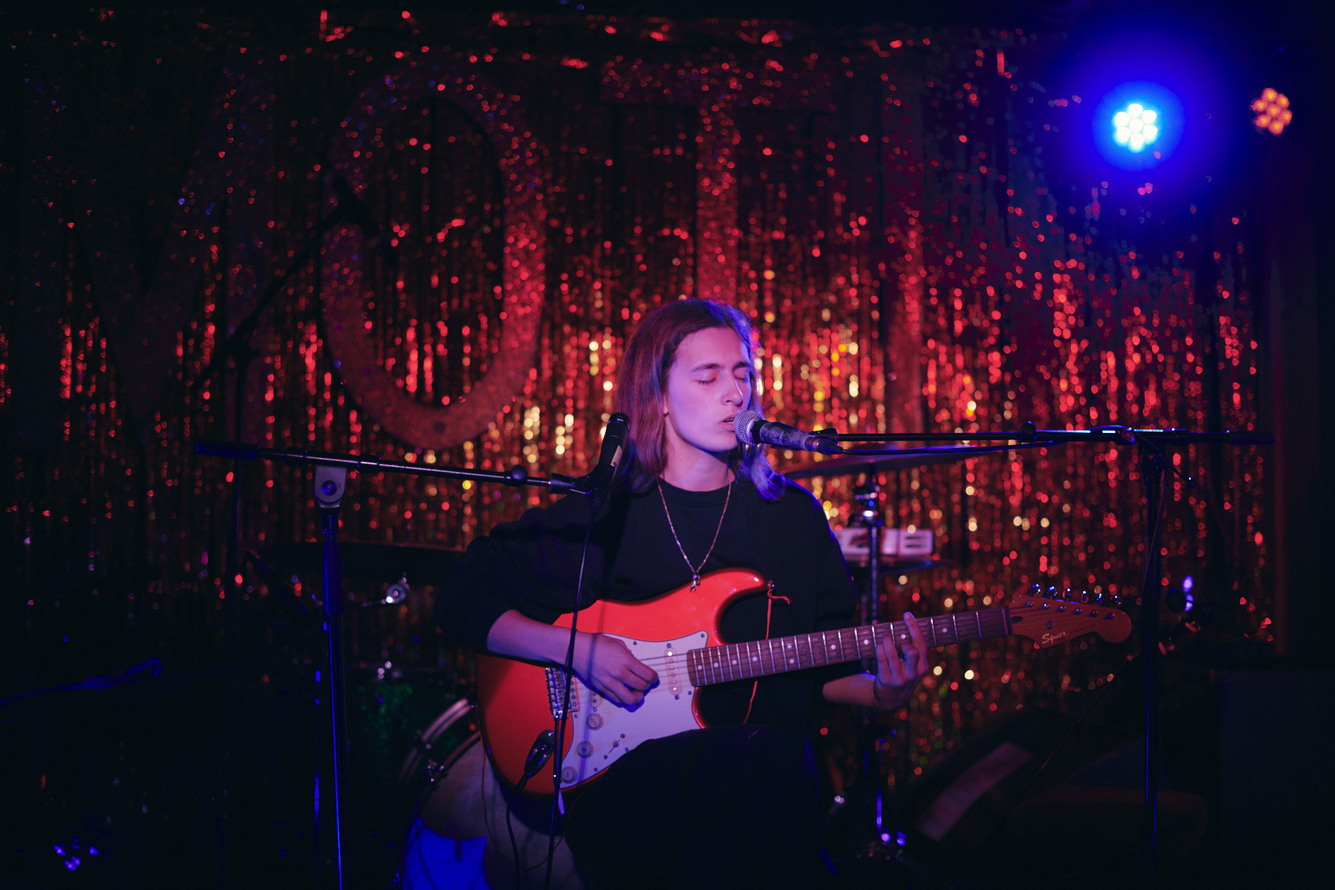
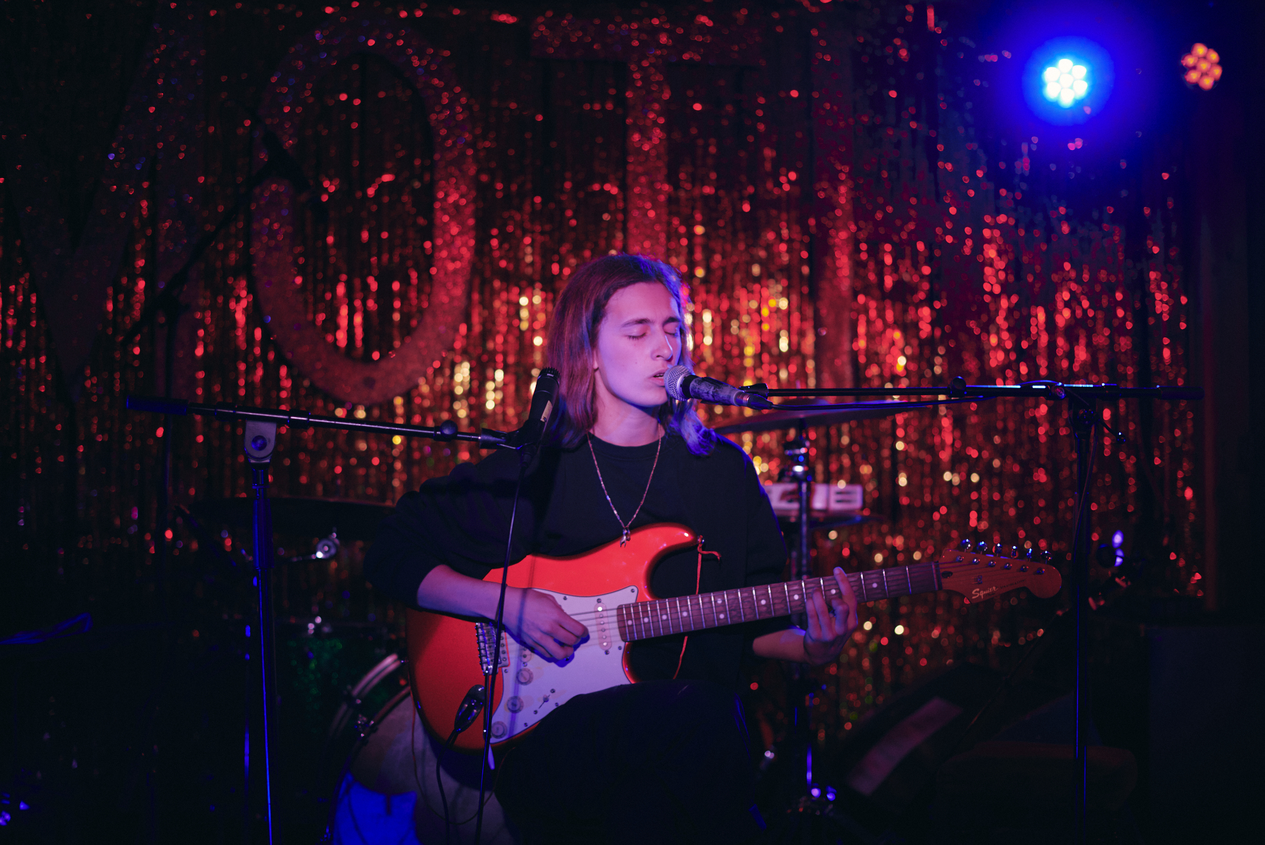
updated 2024

diff --git a/index.html b/index.html
@@ -13,62 +13,62 @@
 <body>
 
     <div class="column-1">
-        <div class="social-links">
+        <div class="logo">
             <p><b>heka</b>
-                <br><br><br><br>
-                <a class="social" href="https://www.instagram.com/iamheka" target="_blank">&rarr; Instagram</a>
-                <br>
-                <a class="social" href="http://hekamusic.bandcamp.com/" target="_blank">&rarr; Bandcamp</a>
-                <br>
-                <a class="social" href="https://www.facebook.com/hekaproject" target="_blank">&rarr; Facebook</a>
-                <br>
-                <a class="social" href="https://www.twitter.com/iamheka" target="_blank">&rarr; Twitter</a>
-                <br>
-                <a class="social" href="https://open.spotify.com/artist/0pywJo7FyLovHMpmlIwWmL?si=QlA6QBrdRE6seprmR10vYQ" target="_blank">&rarr; Spotify</a>
-                <br>
-                <a class="social" href="https://www.youtube.com/c/hekamusic" target="_blank">&rarr; YouTube</a>
-                <br><br><br>
+
         </div>
-        <div class="team">
+
+        <div class="left-column-section">
+
+            <a class="social" href="https://www.instagram.com/iamheka" target="_blank">&rarr; Instagram</a>
+            <br>
+            <a class="social" href="http://hekamusic.bandcamp.com/" target="_blank">&rarr; Bandcamp</a>
+            <br>
+            <a class="social" href="https://www.facebook.com/hekaproject" target="_blank">&rarr; Facebook</a>
+            <br>
+            <a class="social" href="https://www.twitter.com/iamheka" target="_blank">&rarr; Twitter</a>
+            <br>
+            <a class="social" href="https://open.spotify.com/artist/0pywJo7FyLovHMpmlIwWmL?si=QlA6QBrdRE6seprmR10vYQ" target="_blank">&rarr; Spotify</a>
+            <br>
+            <a class="social" href="https://www.youtube.com/c/hekamusic" target="_blank">&rarr; YouTube</a>
+            <br><br><br>
+        </div>
+        <div class="left-column-section">
             <b>Manager:</b>
             <br><br>
             Tobi Moore 
             <br>
             <a href="mailto:tobi@thesapiensgroup.co.uk"><i>tobi@thesapiensgroup.co.uk</i></a>
-            <br><br><br>
-            <b>Live Band:</b>
-            <br><br>
-            > Pike Ogilvy <i>(drums, sample pad)</i>
             <br>
-            > Caius Williams <i>(double bass, bass guitar + pedals)</i> 
-            <br><br><br>
+        </div>
+        <div class="left-column-section">
+            <b>Upcoming Shows:</b>
+            <br><br>
+            03/06 ~ <i>Import Export</i>, Munich
+            <br>
+            07/06 ~ <i>La Boule Noire</i>, Paris
         </div>
 
-        <div class="show-calendar"> <b>Upcoming shows:</b>
-            <br><br>
+        <!--
+        <div class="show-calendar"> 
 
-            <br>
-            19th October @ The George Tavern, London
-            <br>
-            13th November @ Sonic City. Kortrijk, Belgium
-            <br>
-            14th November @ Cinetol. Amsterdam, NL
-            <br>
-            15th November @ Supersonic. Paris, France
+            <a href="https://www.songkick.com/artists/10081402" class="songkick-widget" data-theme="light" data-track-button="on" data-detect-style="on" data-locale="en" data-other-artists="on" data-share-button="on" data-country-filter="off" data-rsvp="on" data-request-show="on" data-past-events="off" data-past-events-offtour="off" data-remind-me="off"></a>
+            <script src='//widget-app.songkick.com/injector/10081402'></script>
 
         </div>
+-->
 
-      <br>• •<br>
-
-        <div class="asset-links">
+        <br>• •<br>
+        <br><br>
+        <div class="left-column-section">
             <p><b>Download Visual Assets</b>
                 <br>
                 <a href="https://drive.google.com/drive/folders/1mfpSH2ZFhLpdM7w_8p_YvBPUtZD53PPa?usp=sharing" target=”_blank”>&rarr; here &larr;</a>
-                <br><br><br>
+                <br><br>
                 <b>Download Tech Specs</b>
                 <br>
                 <a href="https://docs.google.com/document/d/1GjV6ToJtKZCdKaVZb6SqRvJ4mnX-0sMiJQnY85NaLEI/edit?usp=sharing">&rarr; here &larr;</a>
-                <br><br><br>
+                <br><br>
                 <b>Watch Live Videos</b>
                 <br>
                 <a href="https://youtube.com/playlist?list=PLSdkOC0WYO22STZqFrXGuaJw9FZUtl0Jn" target=”_blank”>&rarr; here &larr;</a>
@@ -79,7 +79,7 @@
 
 
     <div class="column-2">
-        <a href="https://drive.google.com/drive/folders/1mfpSH2ZFhLpdM7w_8p_YvBPUtZD53PPa?usp=sharing" target=”_blank”><img class="main" src="visual-assets/EBERT_HEKA_web_01_CROPPED.jpg"></a>
+        <a href="https://drive.google.com/drive/folders/1mfpSH2ZFhLpdM7w_8p_YvBPUtZD53PPa?usp=sharing" target=”_blank”><img class="main" src="visual-assets/SWAN SONGS Press shot.jpg"></a>
 
         <div class="sub-column-1">
 
@@ -93,36 +93,42 @@
                 <br><br>
                 <i>“(An EP) of intoxicating beauty, a mesmerising project that’s tied to the promise of bigger things to come.”</i>
                 <br>
-
                 <b>Our Culture </b>
                 <br><br>
                 <b>Bandcamp Record Of The Day</b>
                 <br><br>
                 <b>Featured on BBC Radio 1’s Chillest Show</b>
                 <br><br>
+                <b>Featured on BBC Radio 6’s Gilles Peterson Show</b>
+                <br><br>
                 <b>Featured in The Independent</b></p>
         </div>
         <div class=sub-column-2>
-            <p>Francesca Brierley - aka heka - is a multi-disciplinary artist, songwriter and producer from Florence, now based in London. <br>Deeply intimate and awash with melancholia, her style of lo-fi warmth incorporates snippets of conversations previously buried deep within the notes of her phone, blending murmurings of life with themes of love and loss, nostalgia and the everyday.<br><br>Rejecting genre constraints in favour of a sonic hybridity, 2021 saw her release (a), a collection of self-produced, butchered folk songs which, through the melding of electronic and organic tones, delivered an EP that is as haunting as it is enticing.  <br><br>Having toured the UK with the cult acclaimed White Flowers, as well as playing shows with the likes of Modern Woman, Broadside Hacks and Sean Nicholas Savage, heka is now organising her first EU tour with Spang Sisters, off the back of having been handpicked by BC,NR to play Sonic City Festival in Belgium in November.<br><br>
-                Her latest releases include: no one, a single for Open Tab, the new imprint by NY label FireTalk, and High Tide, a collaboration with London producer GG Skips (Sorry, Glows), featured on the ‘21 Slow Dance Compilation.</p>
+            <p>Francesca Brierley - aka heka - is a multi-disciplinary artist, songwriter and producer from Florence based in London. Deeply intimate and awash with melancholia, her style of lo-fi warmth incorporates snippets of conversations previously buried deep within the notes of her phone, blending murmurings of life with themes of love and loss, nostalgia and the everyday. Rejecting genre constraints, her self-produced "butchered folk" songs meld electronic and organic tones in favour of a sonic hybridity.
+                <br><br>
+                Having carved a name for herself in the underground indie scene over the last few years, heka has recently released a new EP via Practise Music (Squid, Martha Skye Murphy, Blue Bendy) and sold out her debut London headline.<br>Her work spans far outside the conventions of music with live performances featuring AI animated live projections and audio reactive stage design. She has gained coverage from the likes of PASTE, The i Paper, Fred Perry, and radio support from BBC Radio 1 and 6, Worldwide FM and NTS.
+                <br><br>
+                Picked by Black Country, New Road to play Sonic City Festival, other notable live shows include a UK tour with cult acclaimed White Flowers, as well as playing shows with the likes of Sam Burton, bar italia, Drug Store Romeos, Indigo Sparke and Saint Jude.
+                <br><br>
+                Having spent the past year crafting away on her live set up and scoring for some indie films, she is now working on her first studio album.
         </div>
 
     </div>
 
     <div class="column-3">
 
+        <a href="https://drive.google.com/drive/folders/1mfpSH2ZFhLpdM7w_8p_YvBPUtZD53PPa?usp=sharing" target=”_blank”><img class="press-shot-moth-club" id="pic" src="visual-assets/state51 pic.jpg"></a>
+
         <a href="https://drive.google.com/drive/folders/1mfpSH2ZFhLpdM7w_8p_YvBPUtZD53PPa?usp=sharing" target=”_blank”><img class="press-shot-a" id="pic" src="visual-assets/(a) EP press shot.png"></a>
 
-
-        <a href="https://drive.google.com/drive/folders/1mfpSH2ZFhLpdM7w_8p_YvBPUtZD53PPa?usp=sharing" target=”_blank”><img class="press-shot-no-one" id="pic" src="visual-assets/heka_Fire Talk press shot.png"></a>
-
-
         <a href="https://drive.google.com/drive/folders/1mfpSH2ZFhLpdM7w_8p_YvBPUtZD53PPa?usp=sharing" target=”_blank”><img class="press-shot-moth-club" id="pic" src="visual-assets/EBERT_HEKA_MODERN%20WOMAN_MOTH%20CLUB.jpg"></a>
+
 
         <br><br>
         <p><b>Releases:</b></p>
         <br>
 
+        <a href="https://hekamusic.bandcamp.com/album/swan-songs" target=”_blank”><img class="releases" src="visual-assets/final%20SWAN%20SONGS%20artwork.png"></a>
         <a href="https://firetalk.bandcamp.com/album/a-year-of-open-tab" target=”_blank”><img class="releases" src="visual-assets/OpenTab.jpeg"></a>
         <a href="https://brotherchid.bandcamp.com/album/bathtime-variety-hour-a-collection-of-covers-for-the-women-of-afghanistan" target=”_blank”><img class="releases" src="visual-assets/Bathtime.jpeg"></a>
         <a href="https://slowdancerecords.bandcamp.com/album/slow-dance-21" target=”_blank”><img class="releases" src="visual-assets/SLOW_DANCE.jpeg"></a>

diff --git a/main.css b/main.css
@@ -40,8 +40,8 @@ a {
     width: 20%;
     /*    height: 100%;*/
     padding: 10px;
-    height: 750px;
-    overflow: hidden;
+    height: 790px;
+    overflow: auto;
 }
 
 .column-2 {
@@ -53,14 +53,14 @@ a {
     padding-right: 20px;
     padding-bottom: 0px;
     margin-top: 0px;
-    height: 750px;
+    height: 790px;
     overflow: hidden;
 }
 
 .column-3 {
     float: left;
     width: 20%;
-    height: 750px;
+    height: 790px;
     overflow: auto;
     padding: 10px;
 
@@ -68,7 +68,7 @@ a {
 
 .sub-column-1 {
     float: left;
-    width: 40%;
+    width: 39%;
     height: 100%;
     padding-top: 0px;
     padding-right: 10px;
@@ -85,6 +85,15 @@ a {
     padding-right: 5px;
     overflow: hidden;
         line-height: 1.22;
+}
+
+
+.left-column-section {
+    height: 20%;
+}
+
+.logo {
+    height: 10%
 }
 
 img.main {
